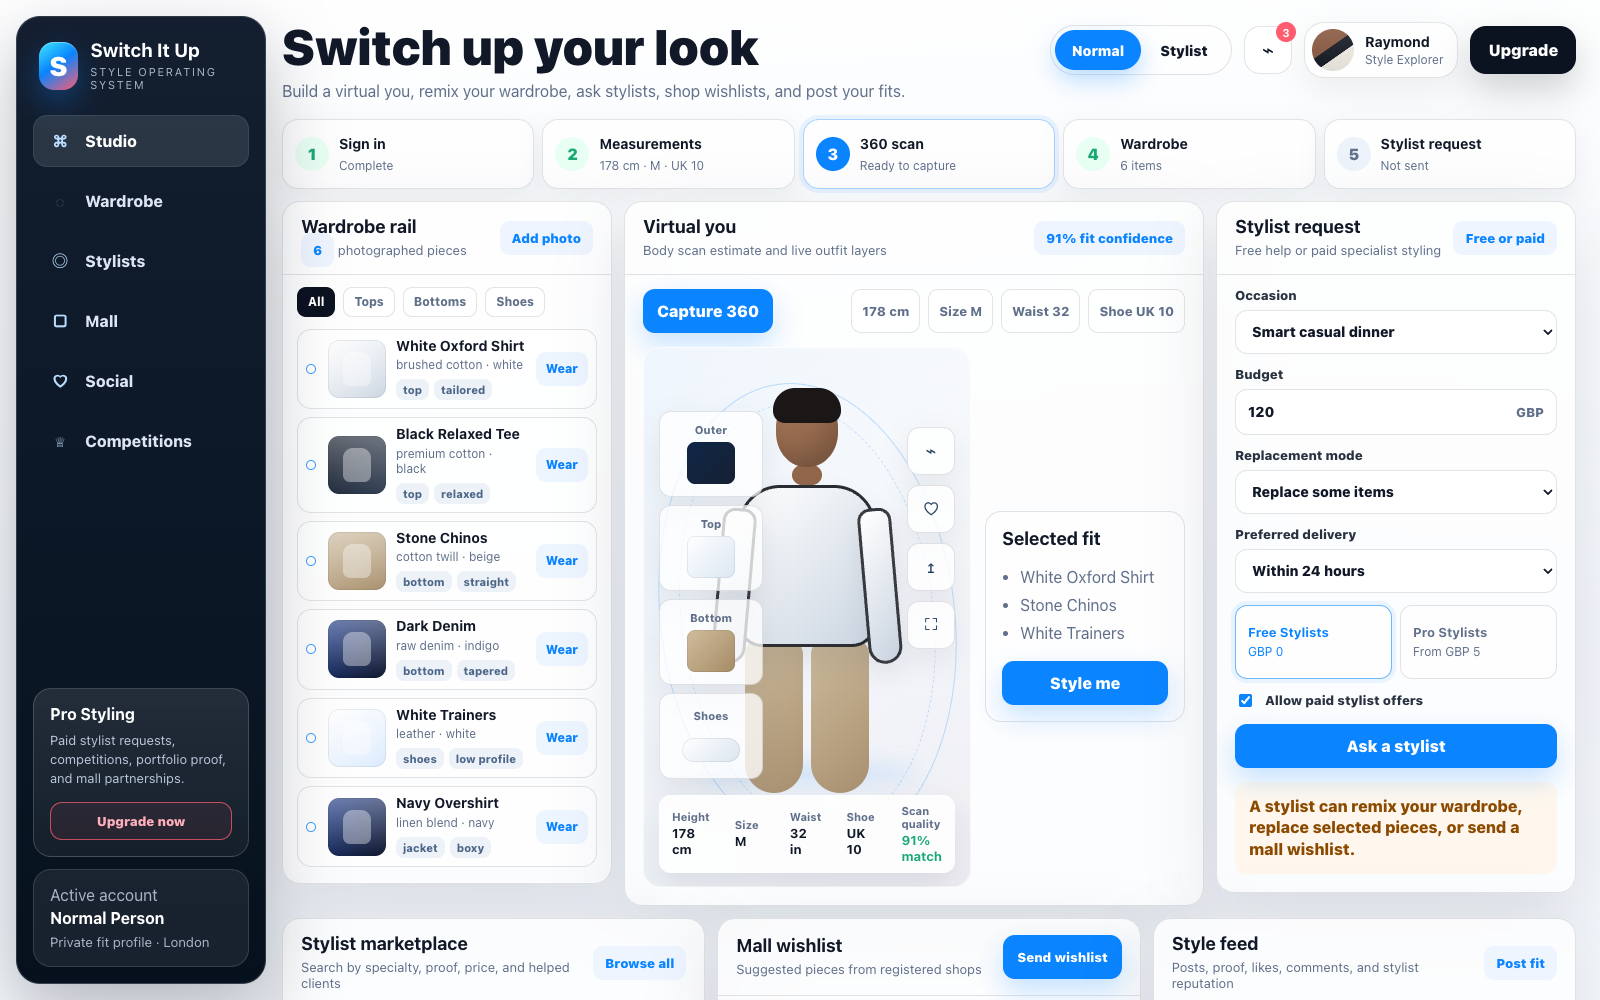
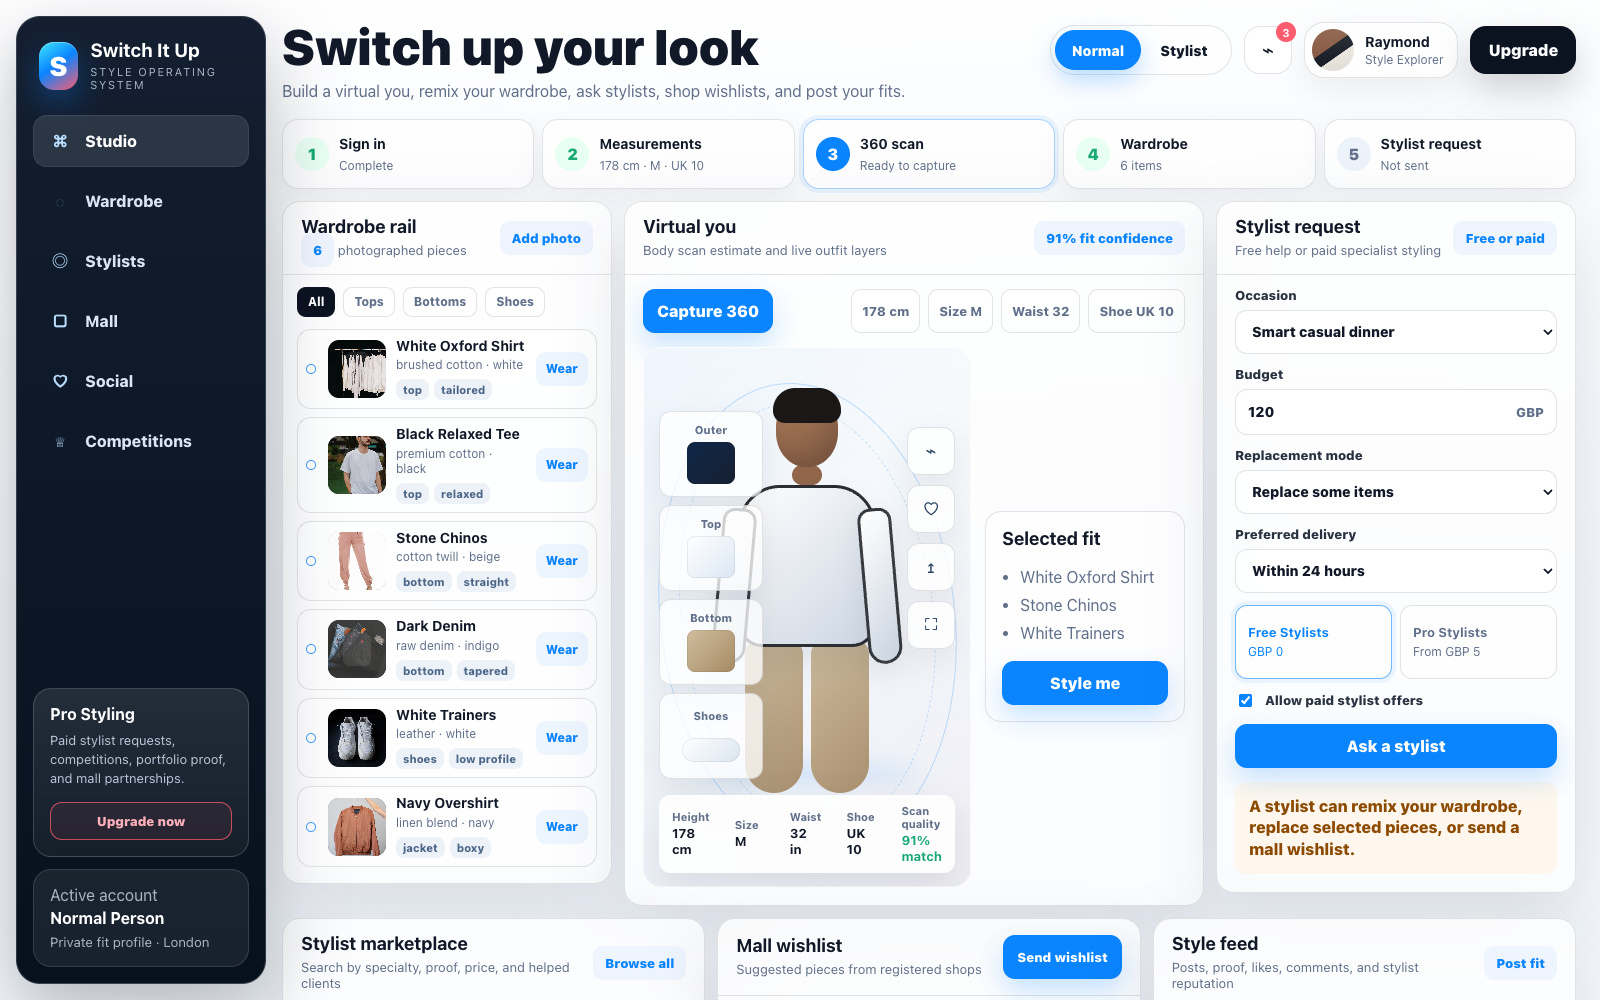
Add real fashion images to frontend

diff --git a/app.js b/app.js
@@ -5,24 +5,24 @@ const defaultState = {
     scan: { status: "ready", quality: 91 },
   },
   wardrobe: [
-    { name: "White Oxford Shirt", category: "top", fit: "tailored", material: "brushed cotton", colorName: "white", formality: 4, warmth: 1, colors: ["#ffffff", "#cbd5e1"] },
-    { name: "Black Relaxed Tee", category: "top", fit: "relaxed", material: "premium cotton", colorName: "black", formality: 2, warmth: 1, colors: ["#111827", "#334155"] },
-    { name: "Stone Chinos", category: "bottom", fit: "straight", material: "cotton twill", colorName: "beige", formality: 4, warmth: 2, colors: ["#cdbb9d", "#a8906f"] },
-    { name: "Dark Denim", category: "bottom", fit: "tapered", material: "raw denim", colorName: "indigo", formality: 2, warmth: 2, colors: ["#1e3a8a", "#0f172a"] },
-    { name: "White Trainers", category: "shoes", fit: "low profile", material: "leather", colorName: "white", formality: 3, warmth: 1, colors: ["#ffffff", "#dbeafe"] },
-    { name: "Navy Overshirt", category: "jacket", fit: "boxy", material: "linen blend", colorName: "navy", formality: 3, warmth: 3, colors: ["#1e3a8a", "#0f172a"] },
+    { name: "White Oxford Shirt", category: "top", fit: "tailored", material: "brushed cotton", colorName: "white", formality: 4, warmth: 1, colors: ["#ffffff", "#cbd5e1"], photo: "assets/photos/white-shirt.jpg" },
+    { name: "Black Relaxed Tee", category: "top", fit: "relaxed", material: "premium cotton", colorName: "black", formality: 2, warmth: 1, colors: ["#111827", "#334155"], photo: "assets/photos/black-tee.jpg" },
+    { name: "Stone Chinos", category: "bottom", fit: "straight", material: "cotton twill", colorName: "beige", formality: 4, warmth: 2, colors: ["#cdbb9d", "#a8906f"], photo: "assets/photos/stone-chinos.jpg" },
+    { name: "Dark Denim", category: "bottom", fit: "tapered", material: "raw denim", colorName: "indigo", formality: 2, warmth: 2, colors: ["#1e3a8a", "#0f172a"], photo: "assets/photos/dark-denim.jpg" },
+    { name: "White Trainers", category: "shoes", fit: "low profile", material: "leather", colorName: "white", formality: 3, warmth: 1, colors: ["#ffffff", "#dbeafe"], photo: "assets/photos/white-trainers.jpg" },
+    { name: "Navy Overshirt", category: "jacket", fit: "boxy", material: "linen blend", colorName: "navy", formality: 3, warmth: 3, colors: ["#1e3a8a", "#0f172a"], photo: "assets/photos/navy-overshirt.jpg" },
   ],
   selected: ["White Oxford Shirt", "Stone Chinos", "White Trainers"],
   stylists: [
-    { name: "Tami Looks", specialty: "Smart casual · dates · brunch", rating: 4.9, helped: 214, paid: true, avatar: "linear-gradient(145deg,#7b4f38,#f3d2b2 58%,#1d2636 59%)" },
-    { name: "Kola Fits", specialty: "Streetwear · concerts · campus", rating: 4.8, helped: 187, paid: true, avatar: "linear-gradient(145deg,#6e4635,#caa07b 55%,#233047 56%)" },
-    { name: "Ari Tailored", specialty: "Weddings · formal · business", rating: 4.7, helped: 143, paid: true, avatar: "linear-gradient(145deg,#8a5f46,#e2b991 55%,#111827 56%)" },
-    { name: "Maya FreeFit", specialty: "Budget wardrobe remix", rating: 4.6, helped: 91, paid: false, avatar: "linear-gradient(145deg,#8a583e,#d9a780 55%,#f7dce4 56%)" },
+    { name: "Tami Looks", specialty: "Smart casual · dates · brunch", rating: 4.9, helped: 214, paid: true, avatar: "linear-gradient(145deg,#7b4f38,#f3d2b2 58%,#1d2636 59%)", photo: "assets/photos/blazer-portrait.jpg" },
+    { name: "Kola Fits", specialty: "Streetwear · concerts · campus", rating: 4.8, helped: 187, paid: true, avatar: "linear-gradient(145deg,#6e4635,#caa07b 55%,#233047 56%)", photo: "assets/photos/style-feed.jpg" },
+    { name: "Ari Tailored", specialty: "Weddings · formal · business", rating: 4.7, helped: 143, paid: true, avatar: "linear-gradient(145deg,#8a5f46,#e2b991 55%,#111827 56%)", photo: "assets/photos/avatar-model.jpg" },
+    { name: "Maya FreeFit", specialty: "Budget wardrobe remix", rating: 4.6, helped: 91, paid: false, avatar: "linear-gradient(145deg,#8a583e,#d9a780 55%,#f7dce4 56%)", photo: "assets/photos/black-tee.jpg" },
   ],
   mall: [
-    { item: "Structured navy blazer", store: "Metro Mall", price: 78, match: "Sharpens dinner fit", bg: "linear-gradient(135deg,#081827,#0d2e55)" },
-    { item: "Minimal leather loafers", store: "StyleHub", price: 64, match: "Upgrades footwear", bg: "linear-gradient(135deg,#7a3f1f,#c87a3a)" },
-    { item: "Silver chain accessory", store: "Urban Rack", price: 22, match: "Adds quiet detail", bg: "linear-gradient(135deg,#e7edf5,#9ba9bb)" },
+    { item: "Structured navy blazer", store: "Metro Mall", price: 78, match: "Sharpens dinner fit", bg: "linear-gradient(135deg,#081827,#0d2e55)", photo: "assets/photos/mall-blazer.jpg" },
+    { item: "Minimal leather loafers", store: "StyleHub", price: 64, match: "Upgrades footwear", bg: "linear-gradient(135deg,#7a3f1f,#c87a3a)", photo: "assets/photos/loafers.jpg" },
+    { item: "Silver chain accessory", store: "Urban Rack", price: 22, match: "Adds quiet detail", bg: "linear-gradient(135deg,#e7edf5,#9ba9bb)", photo: "assets/photos/style-feed.jpg" },
   ],
   styleRequests: [],
 };
@@ -132,7 +132,9 @@ function renderWardrobe() {
   document.getElementById("wardrobeGrid").innerHTML = visible.map((item) => `
     <article class="cloth">
       <span class="wardrobe-select-dot" aria-hidden="true"></span>
-      <div class="cloth-art" style="--c1:${item.colors[0]};--c2:${item.colors[1]}"></div>
+      <div class="cloth-art" style="--c1:${item.colors[0]};--c2:${item.colors[1]}">
+        ${item.photo ? `<img src="${item.photo}" alt="${item.name}" loading="lazy">` : ""}
+      </div>
       <div>
         <strong>${item.name}</strong>
         <small>${item.material} · ${item.colorName}</small>
@@ -189,7 +191,9 @@ function renderFit() {
 function renderStylists() {
   document.getElementById("stylistCards").innerHTML = stylists.map((stylist) => `
     <article class="stylist-card">
-      <span class="stylist-avatar" style="--avatar:${stylist.avatar}" aria-hidden="true"></span>
+      <span class="stylist-avatar" style="--avatar:${stylist.avatar}">
+        ${stylist.photo ? `<img src="${stylist.photo}" alt="${stylist.name}" loading="lazy">` : ""}
+      </span>
       <div>
         <strong>${stylist.name}</strong>
         <span>${stylist.specialty}</span>
@@ -202,7 +206,9 @@ function renderStylists() {
 function renderMall() {
   document.getElementById("mallItems").innerHTML = mall.map((item) => `
     <article class="mall-item">
-      <span class="mall-thumb" style="--mall-bg:${item.bg}" aria-hidden="true"></span>
+      <span class="mall-thumb" style="--mall-bg:${item.bg}">
+        ${item.photo ? `<img src="${item.photo}" alt="${item.item}" loading="lazy">` : ""}
+      </span>
       <strong>${item.item}</strong>
       <span>${item.store} · GBP ${item.price} · ${item.match}</span>
       <div class="mall-actions">
@@ -287,6 +293,7 @@ function newPhotoItem() {
     formality: 4,
     warmth: 2,
     colors: ["#ff5c70", "#fb7185"],
+    photo: "assets/photos/mall-blazer.jpg",
   };
 }
 

diff --git a/styles.css b/styles.css
@@ -383,12 +383,23 @@ h1 {
     linear-gradient(135deg, var(--c1), var(--c2));
   box-shadow: inset 0 0 0 1px rgba(17,24,39,.08);
 }
+.cloth-art img,
+.mall-thumb img,
+.stylist-avatar img,
+.fit-photo img {
+  width: 100%;
+  height: 100%;
+  display: block;
+  object-fit: cover;
+}
 .cloth-art::before {
   content: "";
   position: absolute;
   inset: 12px 15px;
   border-radius: 10px 10px 7px 7px;
   background: rgba(255,255,255,.38);
+  opacity: .24;
+  pointer-events: none;
 }
 .cloth strong { display: block; line-height: 1.18; font-size: 14px; }
 .cloth small { display: block; margin-top: 3px; color: var(--muted); font-size: 12px; }
@@ -778,6 +789,7 @@ h1 {
   width: 44px;
   height: 44px;
   border-radius: 50%;
+  overflow: hidden;
   background:
     linear-gradient(180deg, rgba(255,255,255,.18), rgba(0,0,0,.06)),
     var(--avatar, linear-gradient(135deg, #a87958, #20293a));
@@ -805,6 +817,7 @@ h1 {
 .mall-thumb {
   height: 78px;
   border-radius: 12px;
+  overflow: hidden;
   background:
     linear-gradient(180deg, rgba(255,255,255,.34), rgba(255,255,255,0)),
     var(--mall-bg, linear-gradient(135deg, #0e2747, #172033));
@@ -841,6 +854,7 @@ h1 {
 .fit-photo {
   min-height: 130px;
   border-radius: 14px;
+  overflow: hidden;
   background:
     linear-gradient(180deg, rgba(255,255,255,.1), rgba(0,0,0,.08)),
     linear-gradient(135deg, #d6c4a7 0 28%, #f4f0e8 29% 48%, #112033 49% 72%, #ffffff 73%);

diff --git a/index.html b/index.html
@@ -246,7 +246,9 @@
             <button type="button">Post fit</button>
           </div>
           <article class="feed-card">
-            <div class="fit-photo"></div>
+            <div class="fit-photo">
+              <img src="assets/photos/style-feed.jpg" alt="Styled smart casual outfit" loading="lazy" />
+            </div>
             <div>
               <strong>@tamilooks styled @ray</strong>
               <p>Smart casual remix using wardrobe pieces plus one mall jacket. Saved as “Friday dinner”.</p>

diff --git a/src/backend.py b/src/backend.py
@@ -61,6 +61,7 @@ def default_state() -> dict[str, Any]:
                 "formality": 4,
                 "warmth": 1,
                 "colors": ["#ffffff", "#cbd5e1"],
+                "photo": "assets/photos/white-shirt.jpg",
             },
             {
                 "name": "Black Relaxed Tee",
@@ -72,6 +73,7 @@ def default_state() -> dict[str, Any]:
                 "formality": 2,
                 "warmth": 1,
                 "colors": ["#111827", "#334155"],
+                "photo": "assets/photos/black-tee.jpg",
             },
             {
                 "name": "Stone Chinos",
@@ -83,6 +85,7 @@ def default_state() -> dict[str, Any]:
                 "formality": 4,
                 "warmth": 2,
                 "colors": ["#cdbb9d", "#a8906f"],
+                "photo": "assets/photos/stone-chinos.jpg",
             },
             {
                 "name": "Dark Denim",
@@ -94,6 +97,7 @@ def default_state() -> dict[str, Any]:
                 "formality": 2,
                 "warmth": 2,
                 "colors": ["#1e3a8a", "#0f172a"],
+                "photo": "assets/photos/dark-denim.jpg",
             },
             {
                 "name": "White Trainers",
@@ -105,6 +109,7 @@ def default_state() -> dict[str, Any]:
                 "formality": 3,
                 "warmth": 1,
                 "colors": ["#ffffff", "#dbeafe"],
+                "photo": "assets/photos/white-trainers.jpg",
             },
             {
                 "name": "Navy Overshirt",
@@ -116,6 +121,7 @@ def default_state() -> dict[str, Any]:
                 "formality": 3,
                 "warmth": 3,
                 "colors": ["#1e3a8a", "#0f172a"],
+                "photo": "assets/photos/navy-overshirt.jpg",
             },
         ],
         "selected": ["White Oxford Shirt", "Stone Chinos", "White Trainers"],
@@ -127,6 +133,7 @@ def default_state() -> dict[str, Any]:
                 "helped": 214,
                 "paid": True,
                 "avatar": "linear-gradient(145deg,#7b4f38,#f3d2b2 58%,#1d2636 59%)",
+                "photo": "assets/photos/blazer-portrait.jpg",
             },
             {
                 "name": "Kola Fits",
@@ -135,6 +142,7 @@ def default_state() -> dict[str, Any]:
                 "helped": 187,
                 "paid": True,
                 "avatar": "linear-gradient(145deg,#6e4635,#caa07b 55%,#233047 56%)",
+                "photo": "assets/photos/style-feed.jpg",
             },
             {
                 "name": "Ari Tailored",
@@ -143,6 +151,7 @@ def default_state() -> dict[str, Any]:
                 "helped": 143,
                 "paid": True,
                 "avatar": "linear-gradient(145deg,#8a5f46,#e2b991 55%,#111827 56%)",
+                "photo": "assets/photos/avatar-model.jpg",
             },
             {
                 "name": "Maya FreeFit",
@@ -151,6 +160,7 @@ def default_state() -> dict[str, Any]:
                 "helped": 91,
                 "paid": False,
                 "avatar": "linear-gradient(145deg,#8a583e,#d9a780 55%,#f7dce4 56%)",
+                "photo": "assets/photos/black-tee.jpg",
             },
         ],
         "mall": [
@@ -161,6 +171,7 @@ def default_state() -> dict[str, Any]:
                 "price": 78,
                 "match": "Sharpens dinner fit",
                 "bg": "linear-gradient(135deg,#081827,#0d2e55)",
+                "photo": "assets/photos/mall-blazer.jpg",
                 "wardrobeItem": {
                     "name": "Structured Navy Blazer",
                     "category": "jacket",
@@ -171,6 +182,7 @@ def default_state() -> dict[str, Any]:
                     "formality": 5,
                     "warmth": 3,
                     "colors": ["#081827", "#0d2e55"],
+                    "photo": "assets/photos/mall-blazer.jpg",
                 },
             },
             {
@@ -180,6 +192,7 @@ def default_state() -> dict[str, Any]:
                 "price": 64,
                 "match": "Upgrades footwear",
                 "bg": "linear-gradient(135deg,#7a3f1f,#c87a3a)",
+                "photo": "assets/photos/loafers.jpg",
                 "wardrobeItem": {
                     "name": "Minimal Leather Loafers",
                     "category": "shoes",
@@ -190,6 +203,7 @@ def default_state() -> dict[str, Any]:
                     "formality": 4,
                     "warmth": 1,
                     "colors": ["#7a3f1f", "#c87a3a"],
+                    "photo": "assets/photos/loafers.jpg",
                 },
             },
             {
@@ -199,6 +213,7 @@ def default_state() -> dict[str, Any]:
                 "price": 22,
                 "match": "Adds quiet detail",
                 "bg": "linear-gradient(135deg,#e7edf5,#9ba9bb)",
+                "photo": "assets/photos/style-feed.jpg",
                 "wardrobeItem": {
                     "name": "Silver Chain Accessory",
                     "category": "accessory",
@@ -209,6 +224,7 @@ def default_state() -> dict[str, Any]:
                     "formality": 3,
                     "warmth": 1,
                     "colors": ["#e7edf5", "#9ba9bb"],
+                    "photo": "assets/photos/style-feed.jpg",
                 },
             },
         ],
@@ -223,6 +239,7 @@ def default_state() -> dict[str, Any]:
                 "comments": 39,
                 "saves": 18,
                 "bookingRequests": 12,
+                "photo": "assets/photos/style-feed.jpg",
             }
         ],
         "competitions": [
@@ -427,6 +444,7 @@ class SwitchItUpBackend:
             "formality": formality,
             "warmth": warmth,
             "colors": colors[:2],
+            "photo": str(item.get("photo", "assets/photos/style-feed.jpg")),
         }
 
     def _find_wardrobe_item(self, state: dict[str, Any], name: str) -> dict[str, Any]:

diff --git a/docs/image-credits.md b/docs/image-credits.md
@@ -1,0 +1,19 @@
+# Image Credits
+
+Real frontend images are stored in `assets/photos/`.
+
+All downloaded images came from Unsplash and are used under the Unsplash License.
+
+| Local file | Source |
+| --- | --- |
+| `assets/photos/white-shirt.jpg` | https://unsplash.com/photos/e8sbQNYEwX8 |
+| `assets/photos/black-tee.jpg` | https://unsplash.com/photos/Wr0TpKqf26s |
+| `assets/photos/style-feed.jpg` | https://unsplash.com/photos/MOEHWfo6Ub0 |
+| `assets/photos/avatar-model.jpg` | https://unsplash.com/photos/MOEHWfo6Ub0 |
+| `assets/photos/white-trainers.jpg` | https://unsplash.com/photos/XVBZc0zig4Y |
+| `assets/photos/loafers.jpg` | https://unsplash.com/photos/ttWjZSSo-ys |
+| `assets/photos/blazer-portrait.jpg` | https://unsplash.com/photos/Kt8eGw8_S8Y |
+| `assets/photos/dark-denim.jpg` | https://images.unsplash.com/photo-1542272604-787c3835535d |
+| `assets/photos/stone-chinos.jpg` | https://images.unsplash.com/photo-1594633312681-425c7b97ccd1 |
+| `assets/photos/navy-overshirt.jpg` | https://images.unsplash.com/photo-1591047139829-d91aecb6caea |
+| `assets/photos/mall-blazer.jpg` | https://images.unsplash.com/photo-1516762689617-e1cffcef479d |

diff --git a/README.md b/README.md
@@ -23,6 +23,7 @@ The app idea:
 - Virtual-you outfit preview
 - Style request workflow
 - Local JSON backend API with persistent wardrobe, scan, role, style request, and wishlist state
+- Real wardrobe, mall, stylist, and social feed images stored in `assets/photos/`
 - Stylist marketplace cards
 - Mall wishlist panel
 - Social proof feed
@@ -74,6 +75,10 @@ python3 -m unittest discover -s tests -v
 - `POST /api/style-requests`
 - `POST /api/wishlist`
 - `POST /api/reset`
+
+## Image Credits
+
+Image sources are documented in `docs/image-credits.md`.
 
 ## Export Report
 
